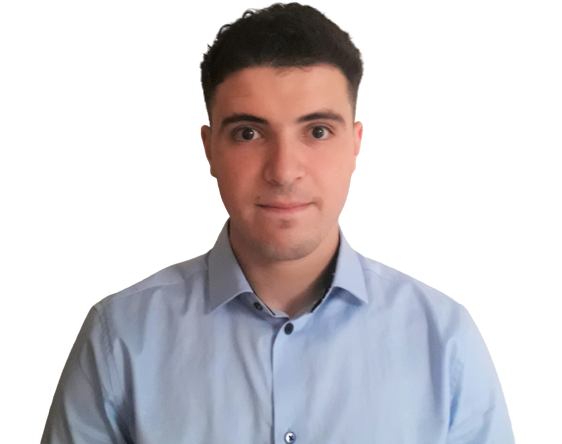
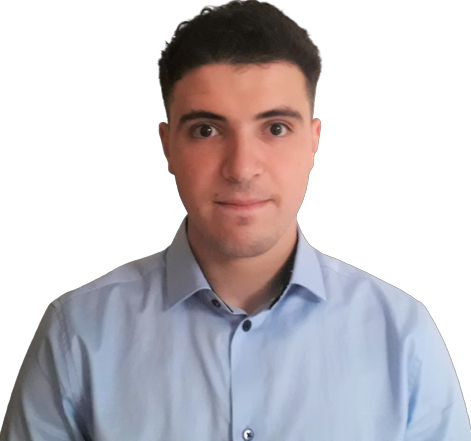
🐛 fix(Presentation): make it more reponsive

diff --git a/src/components/ThePresentation.vue b/src/components/ThePresentation.vue
@@ -1,90 +1,89 @@
 <template>
-  <div id="container">
-    <div id="prensentation" class="child">
-      <h1 id="text-1">
-        {{ $t('presentation.hello') }} <span id="hand">👋</span> {{ $t('presentation.i_am') }}
+  <div class="container">
+    <div class="presentation">
+      <h1 class="title">
+        {{ $t('presentation.hello') }} <span class="wave">👋</span> {{ $t('presentation.i_am') }}
       </h1>
-      <h1 id="text-2">Rachid</h1>
-      <h1 id="text-3">
-        <strong>{{ $t('presentation.position') }}</strong>
-      </h1>
+      <h1 class="name">Rachid</h1>
+      <h2 class="position">{{ $t('presentation.position') }}</h2>
       <a class="button-custom" aria-current="page" href="#contact">{{
         $t('presentation.contact_me')
       }}</a>
     </div>
-    <div class="child">
-      <img id="my-picture" src="@/assets/Rachid-photo.png" alt="M. Abderrachid BELLAALI" />
+    <div class="my-image">
+      <img src="@/assets/Rachid-photo.png" alt="M. Abderrachid BELLAALI" />
     </div>
   </div>
 </template>
-
 <style scoped>
-#container {
+.container {
   display: flex;
   flex-direction: row;
   flex-wrap: wrap;
-  align-content: center;
   justify-content: space-between;
   align-items: center;
-
   height: 100vh;
-  width: 100%;
   min-height: 500px;
   font-family: 'Ubuntu', sans-serif;
 }
 
-#prensentation {
+.presentation {
   display: flex;
   flex-direction: column;
   align-items: flex-start;
   justify-content: center;
-  gap: 10px;
+  max-width: 50%;
+  padding: 0;
+  margin: 0;
 }
 
-.child {
-  width: calc(50% - 30px);
-}
-
-#text-1 {
+.title {
   font-size: clamp(30px, 7vw, 35px);
+  font-weight: 600;
 }
-#text-2 {
+
+.name {
   font-size: clamp(65px, 7vw, 90px);
   font-weight: 600;
-  margin-left: -3px;
 }
-#text-3 {
+
+.position {
   font-size: clamp(30px, 7vw, 40px);
-}
-#text-3 strong {
   color: crimson;
   font-weight: 500;
+  margin-bottom: 30px;
 }
 
-#hand {
-  font-size: 45px;
+.my-image {
+  width: 50%;
+  max-width: 400px;
+  display: flex;
+  justify-content: center;
+  align-items: center;
 }
 
-#my-picture {
-  max-width: min(100%, 500px);
-  object-fit: cover;
+img {
+  max-width: 100%;
+  height: auto;
   border-radius: 50%;
-  /* box-shadow: 0 0 10px 0 rgba(0, 0, 0, 0.2); */
 }
 
 @media only screen and (max-width: 768px) {
-  #container {
+  .container {
     flex-direction: column;
+    align-content: center;
+    justify-content: space-evenly;
     align-items: center;
-    justify-content: center;
   }
 
-  .child {
+  .presentation {
+    max-width: 100%;
+    text-align: center;
+  }
+
+  .my-image {
     width: 100%;
-  }
-
-  #my-picture {
-    max-width: 300px;
+    max-width: 375px;
   }
 }
 </style>
